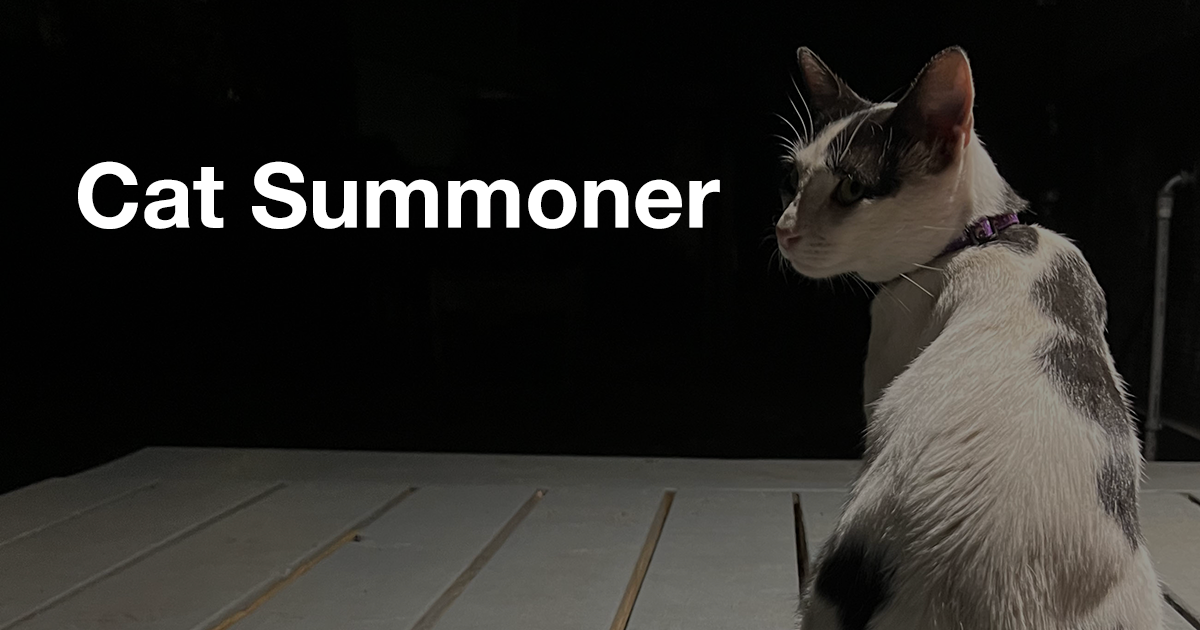
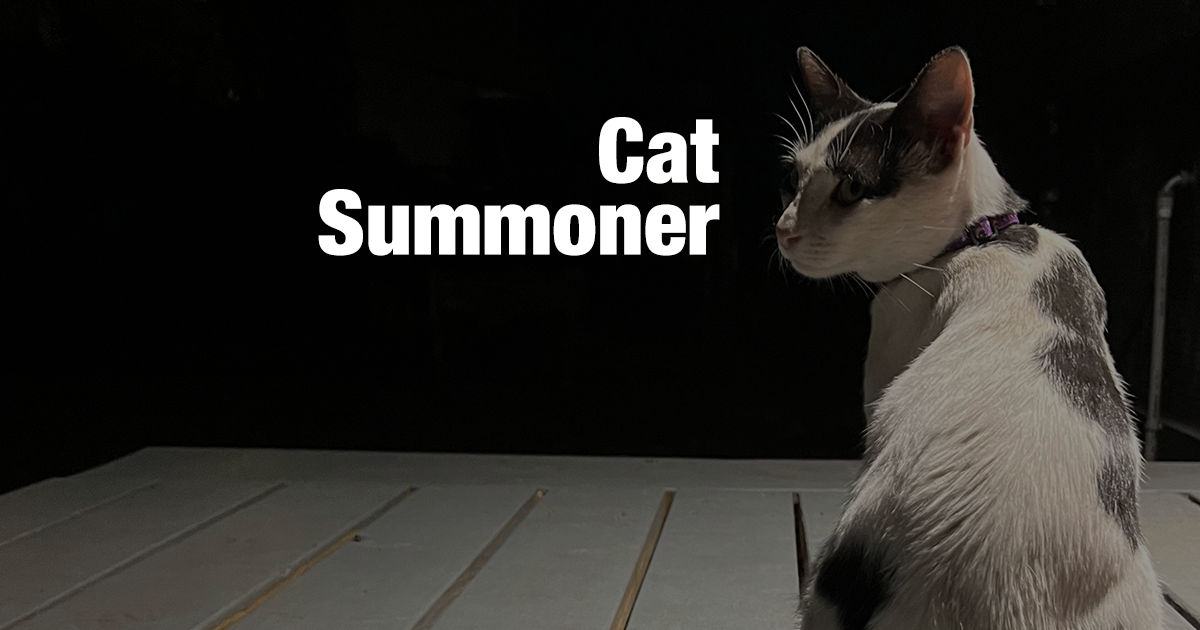
New OpenGraph image, cache breaking

Changed region(s): [[0.0617, 0.181, 0.6167, 0.4222]]

diff --git a/src/pages/Catbook.tsx b/src/pages/Catbook.tsx
@@ -24,7 +24,10 @@ export default function Catbook(): JSX.Element {
 				<title>Catbook 🐱 Cat Summoner</title>
 				{/* OpenGraph Meta Tags */}
 				<meta property="og:description" content="The Catbook at Cat Summoner" />
-				<meta property="og:image" content="https://cat-summoner.com/ogp.png" />
+				<meta
+					property="og:image"
+					content="https://cat-summoner.com/ogp.png?v=2"
+				/>
 				<meta property="og:image:height" content="630" />
 				<meta property="og:image:width" content="1200" />
 				<meta property="og:title" content="Catbook 🐱 Cat Summoner" />

diff --git a/src/pages/About.tsx b/src/pages/About.tsx
@@ -17,7 +17,10 @@ export default function About(): JSX.Element {
 				<title>About 🐱 Cat Summoner</title>
 				{/* OpenGraph Meta Tags */}
 				<meta property="og:description" content="About Cat Summoner" />
-				<meta property="og:image" content="https://cat-summoner.com/ogp.png" />
+				<meta
+					property="og:image"
+					content="https://cat-summoner.com/ogp.png?v=2"
+				/>
 				<meta property="og:image:height" content="630" />
 				<meta property="og:image:width" content="1200" />
 				<meta property="og:title" content="About 🐱 Cat Summoner" />

diff --git a/src/pages/404.tsx b/src/pages/404.tsx
@@ -18,7 +18,10 @@ export default function Custom404(): JSX.Element {
 				<title>404 🐱 Cat Summoner</title>
 				{/* OpenGraph Meta Tags */}
 				<meta property="og:description" content="Page not found" />
-				<meta property="og:image" content="https://cat-summoner.com/ogp.png" />
+				<meta
+					property="og:image"
+					content="https://cat-summoner.com/ogp.png?v=2"
+				/>
 				<meta property="og:image:height" content="630" />
 				<meta property="og:image:width" content="1200" />
 				<meta property="og:title" content="404 🐱 Cat Summoner" />

diff --git a/src/pages/index.tsx b/src/pages/index.tsx
@@ -24,7 +24,10 @@ export default function Home(): JSX.Element {
 				<link rel="icon" href="/favicon.ico" />
 				{/* OpenGraph Meta Tags */}
 				<meta property="og:description" content="the Next cat app" />
-				<meta property="og:image" content="https://cat-summoner.com/ogp.png" />
+				<meta
+					property="og:image"
+					content="https://cat-summoner.com/ogp.png?v=2"
+				/>
 				<meta property="og:image:height" content="630" />
 				<meta property="og:image:width" content="1200" />
 				<meta property="og:title" content="Cat Summoner" />

diff --git a/src/pages/FAQs.tsx b/src/pages/FAQs.tsx
@@ -19,7 +19,10 @@ export default function Faqs(): JSX.Element {
 					property="og:description"
 					content="Frequently asked questions about Cat Summoner"
 				/>
-				<meta property="og:image" content="https://cat-summoner.com/ogp.png" />
+				<meta
+					property="og:image"
+					content="https://cat-summoner.com/ogp.png?v=2"
+				/>
 				<meta property="og:image:height" content="630" />
 				<meta property="og:image:width" content="1200" />
 				<meta property="og:title" content="FAQs 🐱 Cat Summoner" />
